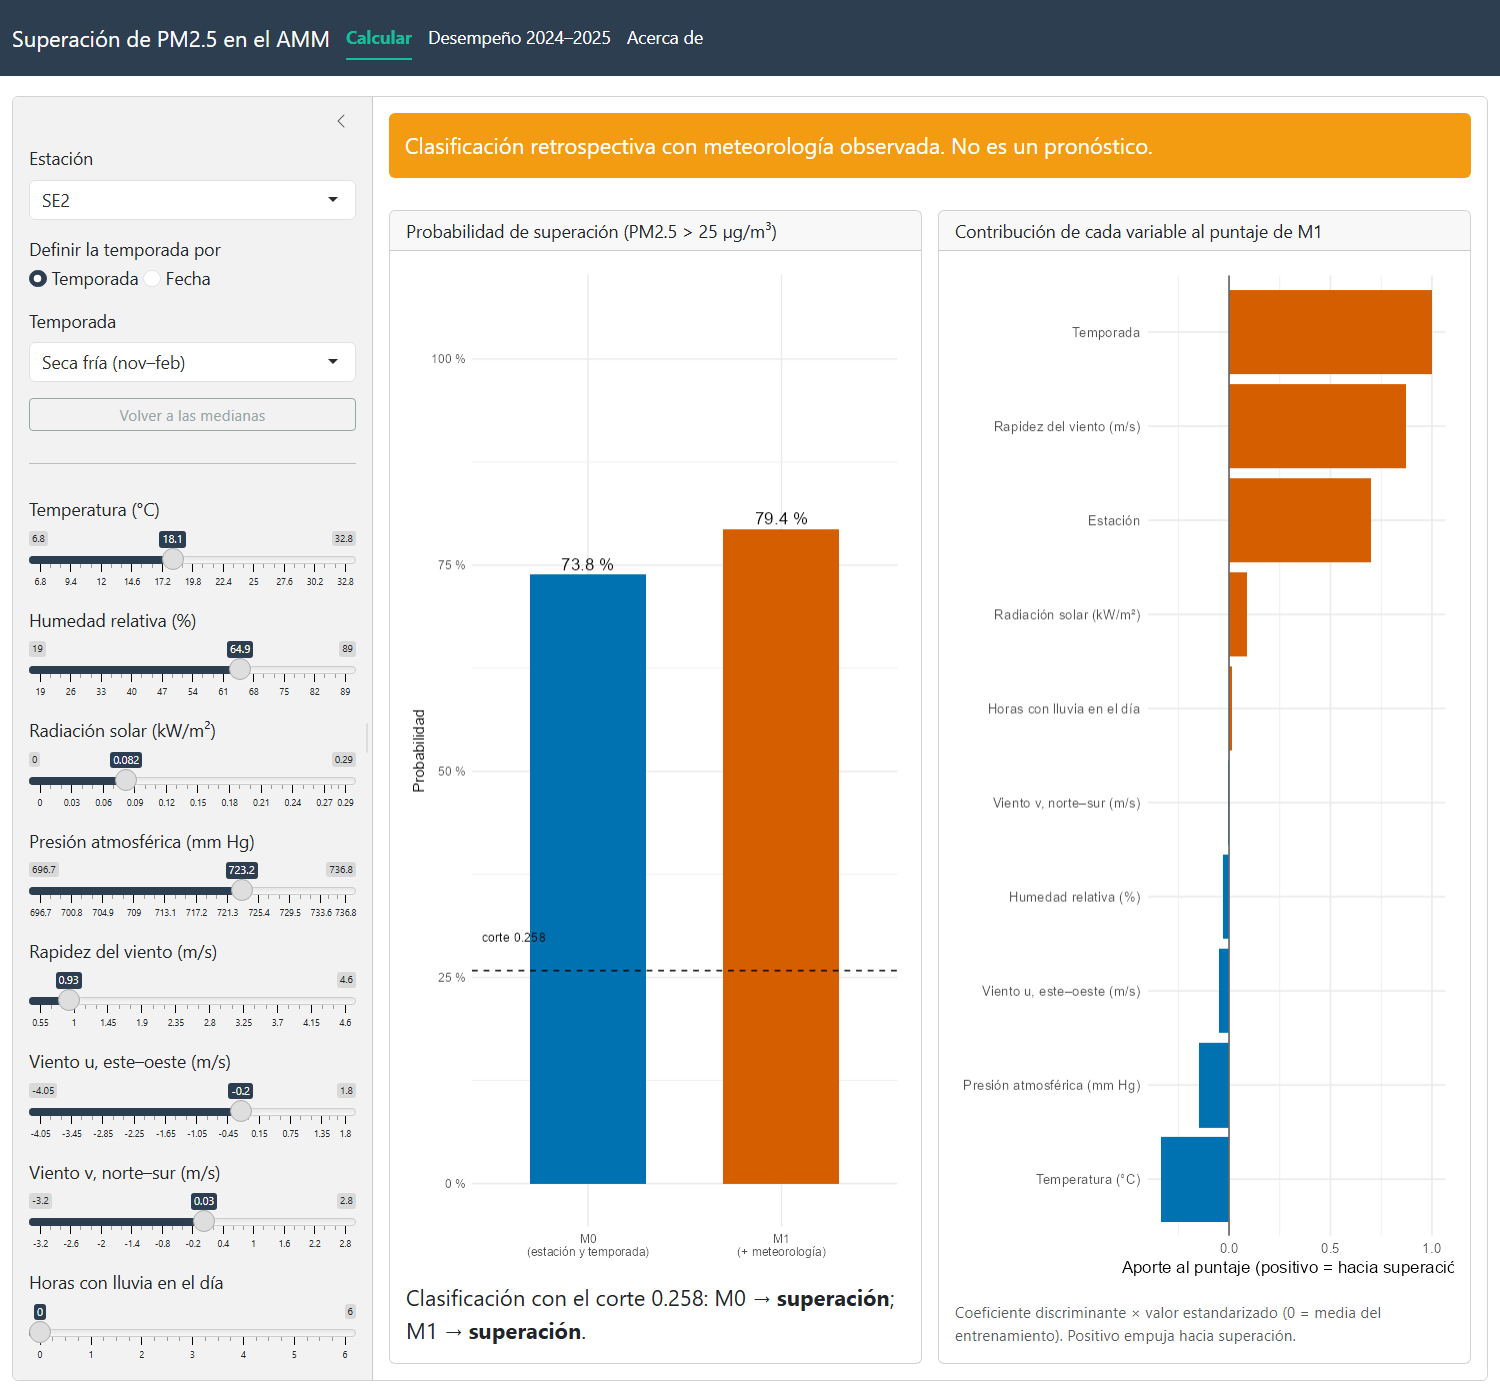
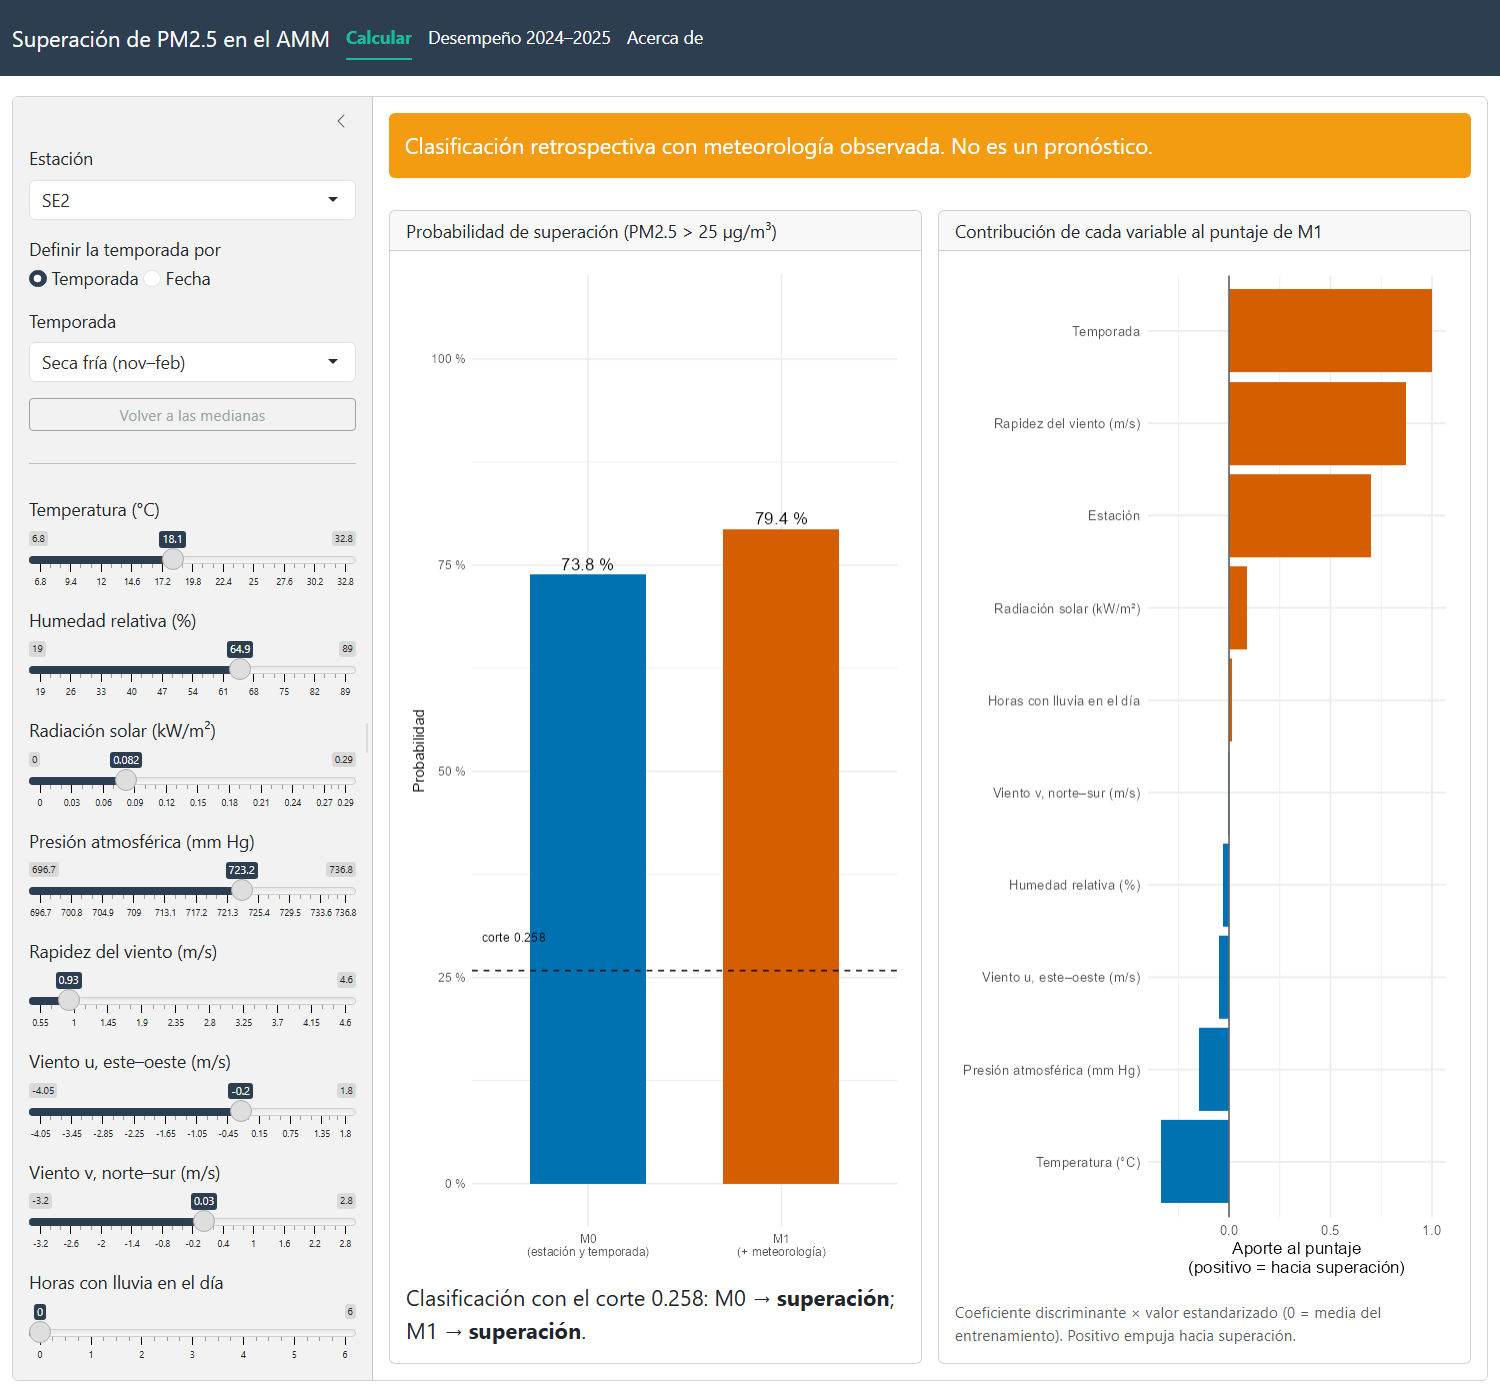
App: titulo del eje de contribuciones en dos lineas; README aclara que webshot2 solo se uso para las capturas

diff --git a/README.md b/README.md
@@ -84,7 +84,7 @@ La etapa 3 incluye una interfaz gráfica para usar el modelo final (LDA, M0 y M1
 2. Abre `sima.Rproj` y corre `shiny::runApp("app")`.
 3. Pruebas: `Rscript tests/test_app_predicciones.R` comprueba que la app reproduce las probabilidades de la prueba (tolerancia 1e-10) y que no falla con los deslizadores en sus extremos.
 
-Pestañas: **Calcular** (probabilidad de superación según M0 y M1 para una estación, temporada o fecha y valores meteorológicos; contribución de cada variable), **Desempeño 2024–2025** (métricas y serie de tiempo con falsos positivos y negativos) y **Acerca de**. Es una clasificación retrospectiva con meteorología observada, no un pronóstico. Capturas: `output/etapa3/figuras/app_*.png`.
+Pestañas: **Calcular** (probabilidad de superación según M0 y M1 para una estación, temporada o fecha y valores meteorológicos; contribución de cada variable), **Desempeño 2024–2025** (métricas y serie de tiempo con falsos positivos y negativos) y **Acerca de**. Es una clasificación retrospectiva con meteorología observada, no un pronóstico. Capturas: `output/etapa3/figuras/app_*.png`; se tomaron con el paquete `webshot2`, que no está en `renv.lock` y no hace falta para correr la app.
 
 Publicación en shinyapps.io (opcional; solo cuando el equipo lo decida): copia `output/etapa3/modelo_final.rds` dentro de `app/`, instala `rsconnect`, configura la cuenta con `rsconnect::setAccountInfo()` y ejecuta `rsconnect::deployApp("app")`.
 
